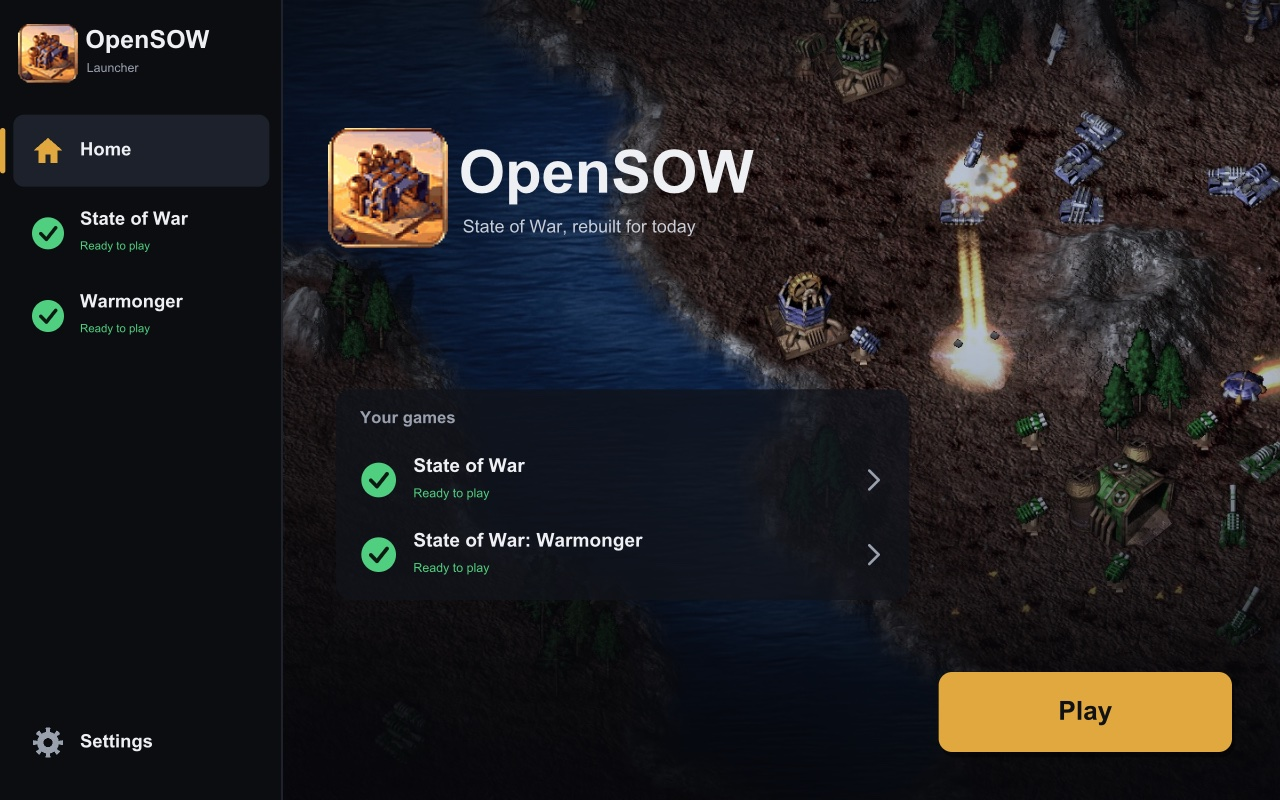
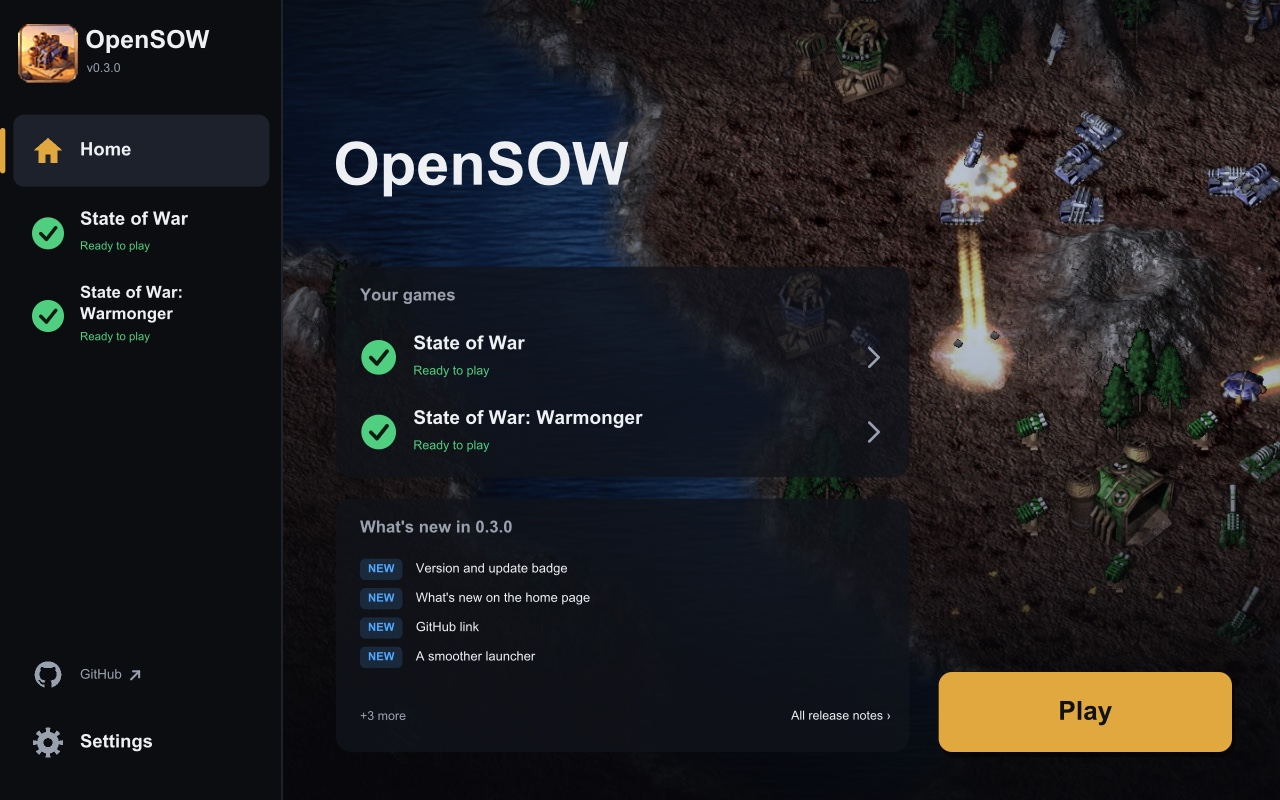
chore(release): 0.3.0
Crate versions 0.3.0, the release notes for the tag in English, Slovak,
Czech and both Chinese scripts, and the README's launcher screenshot and
line for the new home page.

diff --git a/crates/opensow-launcher/src/main.rs b/crates/opensow-launcher/src/main.rs
@@ -414,8 +414,8 @@ fn write_png(path: &str, buf: &[u32], w: usize, h: usize) {
 fn demo_update(state: &str) -> UpdateState {
     let asset = |n: &str| update::Asset { name: n.into(), browser_download_url: String::new(), size: 40_000_000 };
     let r = Release {
-        tag: "v0.3.0".into(),
-        version: (0, 3, 0),
+        tag: "v0.4.0".into(),
+        version: (0, 4, 0),
         name: "Skirmish map editor".into(),
         url: String::new(),
         archive: Some(asset("opensow.zip")),

diff --git a/docs/launcher.md b/docs/launcher.md
@@ -58,4 +58,4 @@ The window draws 60 frames a second only while something moves (frames keep thei
 `crates/opensow-launcher/art/{home,original,warmonger}.jpg` (1350x900, embedded with `include_bytes!`) are screenshots of real games of this port: the computer playing both sides (`--skirmish MAP --spectate --difficulty brutal`, deterministic). Many games were sampled with `--report` (every 6000 / 2000 ticks on all eight maps), each moment scored by a small script for the best view (both armies close together, bases and an Advancer in it), and the best ones rendered again at 1600x1000 with `--center CX,CY` on that spot. The crop (x 96..1446, y 40..940) leaves out every part of the interface: credits bar, air-strike buttons, minimap, tabs and message lines. Home = 07-Cross of Fire, tick 56040, cell (37,20) (a river, an Advancer's beam, both bases); State of War = 02-Ice Blizzard, 62040, (37,15) (bombers, a fighter, a carryall and burning buildings); Warmonger = 08-Island of Fate, 56040, (37,32) (two armies meeting in the desert). They are the one exception to "no derived images in the repo" (`.gitignore` lets them and the application icon through). At run time each is graded (`grade`: home cool and muted, State of War cold blue, Warmonger red with harder contrast), covers the content area and is darkened towards the bottom, top and left where text sits; the result is cached per page and window size.
 
 ## Headless
-`opensow-launcher --screenshot out.png [--size WxH] [--page home|original|warmonger|settings] [--tab launcher|game|extras] [--lang CZ] [--original DIR] [--warmonger DIR] [--hover X,Y] [--message TEXT] [--update checking|uptodate|available|downloading|installed|noreleases|failed] [--time SECS]` (`--time`: the moment of the badge's pulse; the made-up update is 0.3.0 with five notes) (an empty `--original ""` = not located; nothing is saved). Checked at 640x480, 800x600, 1000x620 and 1920x1080; the test `every_page_fits_without_overlaps_at_every_width` checks every page and tab's buttons stay inside and apart at those sizes and 2560x1080 / 300x900.
+`opensow-launcher --screenshot out.png [--size WxH] [--page home|original|warmonger|settings] [--tab launcher|game|extras] [--lang CZ] [--original DIR] [--warmonger DIR] [--hover X,Y] [--message TEXT] [--update checking|uptodate|available|downloading|installed|noreleases|failed] [--time SECS]` (`--time`: the moment of the badge's pulse; the made-up update is 0.4.0 with five notes, in English, Slovak and Czech) (an empty `--original ""` = not located; nothing is saved). Checked at 640x480, 800x600, 1000x620 and 1920x1080; the test `every_page_fits_without_overlaps_at_every_width` checks every page and tab's buttons stay inside and apart at those sizes and 2560x1080 / 300x900.

diff --git a/docs/releases/v0.3.0.md b/docs/releases/v0.3.0.md
@@ -1,0 +1,34 @@
+OpenSOW 0.3.0 makes the launcher tell you what changed and when an update is waiting, and fixes two things players noticed in battle. If you already have 0.2.0, the launcher offers this update by itself.
+
+## New
+
+- **Version and update badge.** The launcher's sidebar shows its version on every page. When a new release is out, a pulsing badge appears on the icon and the version line shows the new number; click it to get to the update.
+- **What's new on the home page.** A card lists the changes of your version at a glance. When an update waits, it shows the new release's changes with an Install button. The notes come in English, Slovak, Czech and Chinese.
+- **GitHub link.** The sidebar links to the project's page, where you can report problems and follow development.
+- **A smoother launcher.** Pages fade and slide into place, buttons react to the pointer and the settings gear spins. The launcher still uses no processor time while nothing moves.
+
+## Fixed
+
+- **Anti-air turrets play their launch sound** when they fire, as in the original; before, only the impact was heard.
+- **Smooth flames when zoomed in.** Close up, flamethrower fire made the game stutter; its glow is now several times cheaper to draw.
+- **Tidier launcher pages:** the large icon and tagline on the home page and the subtitles on the game pages are gone, and the Warmonger entry carries the game's full name.
+
+## Download
+
+| System | File |
+| --- | --- |
+| macOS 11 or later, Apple silicon and Intel | `opensow-0.3.0-macos-universal.dmg` |
+| Windows 10 or later, 64-bit | `opensow-0.3.0-windows-x86_64.zip` |
+| Linux x86_64 (glibc 2.35 or later) | `opensow-0.3.0-linux-x86_64.tar.gz` |
+| Linux ARM64 (glibc 2.35 or later) | `opensow-0.3.0-linux-aarch64.tar.gz` |
+
+Each file has a `.sha256` next to it. New here? You need your own copy of State of War; the [0.1.0 notes](https://github.com/lukassolvar/opensow/releases/tag/v0.1.0) and the [README](https://github.com/lukassolvar/opensow#readme) explain how to get started.
+
+## Known limitations
+
+- No network play yet; skirmish is against the computer.
+- Polish, Hungarian and Russian copies of the game run with English menus.
+- A few details are not yet checked against the original: how a building looks while it is being destroyed, and some of Warmonger's mission-number rules.
+- Unit pathfinding uses a simplified version of the original's grid, so units can occasionally take a slightly different path.
+
+Please [report what you find](https://github.com/lukassolvar/opensow/issues/new/choose). OpenSOW is an unofficial fan project, not affiliated with the original developers or publishers.

diff --git a/docs/releases/v0.3.0.sk.md b/docs/releases/v0.3.0.sk.md
@@ -1,0 +1,14 @@
+OpenSOW 0.3.0 vám v spúšťači ukáže, čo je nové a kedy čaká aktualizácia, a opravuje dve veci, ktoré si hráči všimli v boji. Ak už máte 0.2.0, spúšťač vám túto aktualizáciu ponúkne sám.
+
+## Novinky
+
+- **Verzia a odznak aktualizácie.** Bočný panel spúšťača ukazuje jeho verziu na každej stránke. Keď vyjde nové vydanie, na ikone sa objaví pulzujúci odznak a riadok s verziou ukáže nové číslo; kliknutím sa dostanete k aktualizácii.
+- **Novinky na domovskej stránke.** Karta na prvý pohľad ukáže zmeny vo vašej verzii. Keď čaká aktualizácia, ukáže zmeny nového vydania s tlačidlom na inštaláciu. Poznámky sú po anglicky, slovensky, česky a čínsky.
+- **Odkaz na GitHub.** Bočný panel odkazuje na stránku projektu, kde môžete hlásiť chyby a sledovať vývoj.
+- **Plynulejší spúšťač.** Stránky sa prelínajú a vysúvajú na miesto, tlačidlá reagujú na kurzor a ozubené koliesko nastavení sa otáča. Keď sa nič nehýbe, spúšťač stále nezaťažuje procesor.
+
+## Opravy
+
+- **Protilietadlové veže hrajú zvuk výstrelu**, ako v origináli; predtým bolo počuť len zásah.
+- **Plynulé plamene pri priblížení.** Zblízka plameňomety hru spomaľovali; ich žiara sa teraz kreslí niekoľkonásobne rýchlejšie.
+- **Prehľadnejšie stránky spúšťača:** veľká ikona a podnadpis na domovskej stránke a podnadpisy na stránkach hier zmizli a položka Warmonger nesie celý názov hry.

diff --git a/docs/releases/v0.3.0.cs.md b/docs/releases/v0.3.0.cs.md
@@ -1,0 +1,14 @@
+OpenSOW 0.3.0 vám ve spouštěči ukáže, co je nového a kdy čeká aktualizace, a opravuje dvě věci, kterých si hráči všimli v boji. Pokud už máte 0.2.0, spouštěč vám tuto aktualizaci nabídne sám.
+
+## Novinky
+
+- **Verze a odznak aktualizace.** Boční panel spouštěče ukazuje jeho verzi na každé stránce. Když vyjde nové vydání, na ikoně se objeví pulzující odznak a řádek s verzí ukáže nové číslo; kliknutím se dostanete k aktualizaci.
+- **Novinky na domovské stránce.** Karta na první pohled ukáže změny ve vaší verzi. Když čeká aktualizace, ukáže změny nového vydání s tlačítkem pro instalaci. Poznámky jsou anglicky, slovensky, česky a čínsky.
+- **Odkaz na GitHub.** Boční panel odkazuje na stránku projektu, kde můžete hlásit chyby a sledovat vývoj.
+- **Plynulejší spouštěč.** Stránky se prolínají a vysouvají na místo, tlačítka reagují na kurzor a ozubené kolečko nastavení se otáčí. Když se nic nehýbe, spouštěč dál nezatěžuje procesor.
+
+## Opravy
+
+- **Protiletadlové věže hrají zvuk výstřelu**, jako v originále; dříve byl slyšet jen zásah.
+- **Plynulé plameny při přiblížení.** Zblízka plamenomety hru zpomalovaly; jejich záře se teď kreslí několikanásobně rychleji.
+- **Přehlednější stránky spouštěče:** velká ikona a podtitul na domovské stránce a podtituly na stránkách her zmizely a položka Warmonger nese celý název hry.

diff --git a/docs/releases/v0.3.0.zh-Hans.md b/docs/releases/v0.3.0.zh-Hans.md
@@ -1,0 +1,14 @@
+OpenSOW 0.3.0 让启动器告诉你有哪些变化、何时有更新可用，并修复了玩家在战斗中发现的两个问题。如果你已经安装了 0.2.0，启动器会自动提供这次更新。
+
+## 新功能
+
+- **版本号和更新标记。** 启动器侧边栏在每个页面都显示版本号。有新版本发布时，图标上会出现跳动的标记，版本行显示新的版本号；点击即可前往更新。
+- **主页上的新内容。** 一张卡片让你一眼看到当前版本的变化。有更新可用时，它会显示新版本的变化和安装按钮。说明提供英语、斯洛伐克语、捷克语和中文。
+- **GitHub 链接。** 侧边栏链接到项目页面，你可以在那里报告问题、关注开发进展。
+- **更流畅的启动器。** 页面淡入并滑动到位，按钮会响应鼠标，设置齿轮会旋转。没有动画时，启动器仍然不占用处理器。
+
+## 修复
+
+- **防空炮塔开火时播放发射音效**，与原版一致；以前只能听到命中声。
+- **放大时火焰保持流畅。** 近距离观看时，火焰喷射器会让游戏卡顿；现在它的光晕绘制速度快了数倍。
+- **更简洁的启动器页面：** 去掉了主页的大图标和标语以及游戏页面的副标题，Warmonger 条目显示游戏全名。

diff --git a/docs/releases/v0.3.0.zh-Hant.md b/docs/releases/v0.3.0.zh-Hant.md
@@ -1,0 +1,14 @@
+OpenSOW 0.3.0 讓啟動器告訴你有哪些變化、何時有更新可用，並修正了玩家在戰鬥中發現的兩個問題。如果你已經安裝了 0.2.0，啟動器會自動提供這次更新。
+
+## 新功能
+
+- **版本號和更新標記。** 啟動器側邊欄在每個頁面都顯示版本號。有新版本發布時，圖示上會出現跳動的標記，版本列顯示新的版本號；點擊即可前往更新。
+- **首頁上的新內容。** 一張卡片讓你一眼看到目前版本的變化。有更新可用時，它會顯示新版本的變化和安裝按鈕。說明提供英語、斯洛伐克語、捷克語和中文。
+- **GitHub 連結。** 側邊欄連結到專案頁面，你可以在那裡回報問題、關注開發進度。
+- **更流暢的啟動器。** 頁面淡入並滑動到位，按鈕會回應滑鼠，設定齒輪會旋轉。沒有動畫時，啟動器仍然不佔用處理器。
+
+## 修復
+
+- **防空砲塔開火時播放發射音效**，與原版一致；以前只能聽到命中聲。
+- **放大時火焰保持流暢。** 近距離觀看時，火焰噴射器會讓遊戲卡頓；現在它的光暈繪製速度快了數倍。
+- **更簡潔的啟動器頁面：** 去掉了首頁的大圖示和標語以及遊戲頁面的副標題，Warmonger 項目顯示遊戲全名。

diff --git a/README.md b/README.md
@@ -108,7 +108,7 @@ menu, or swap the mouse buttons to give orders with the right click.
 ![](docs/screenshots/controls.jpg)
 
 Also: resolutions up to 4K, five interface languages, and a launcher that finds your games, holds
-the settings and updates itself.
+the settings, shows what is new and updates itself.
 
 ![](docs/screenshots/launcher.jpg)
 
